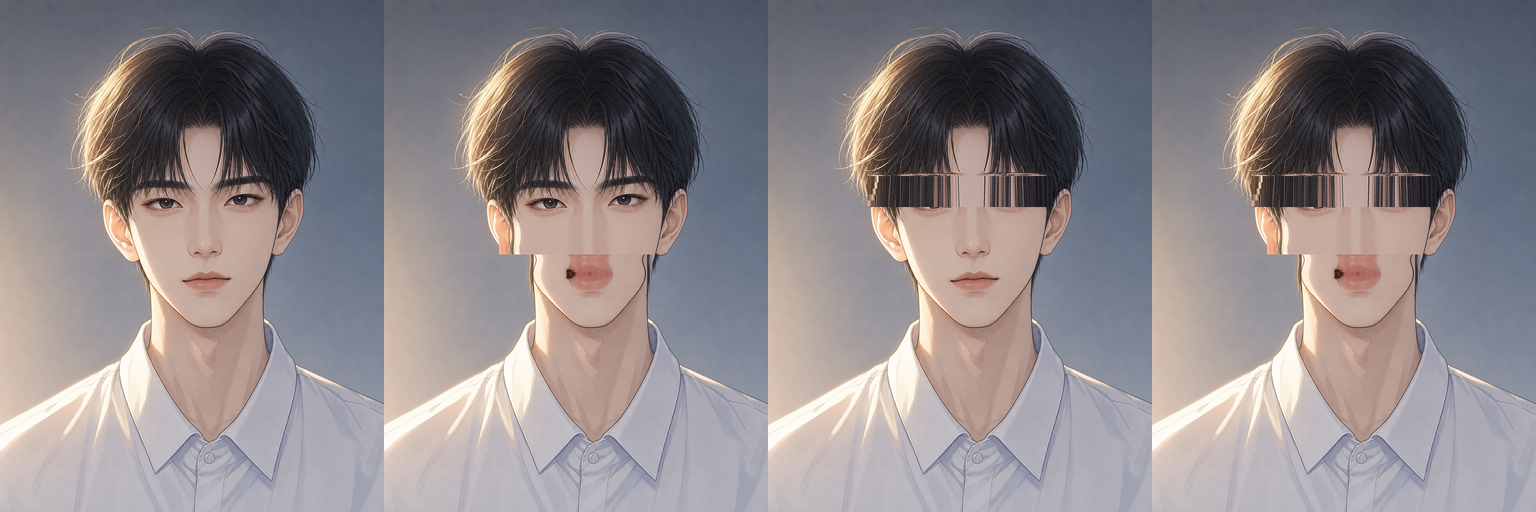
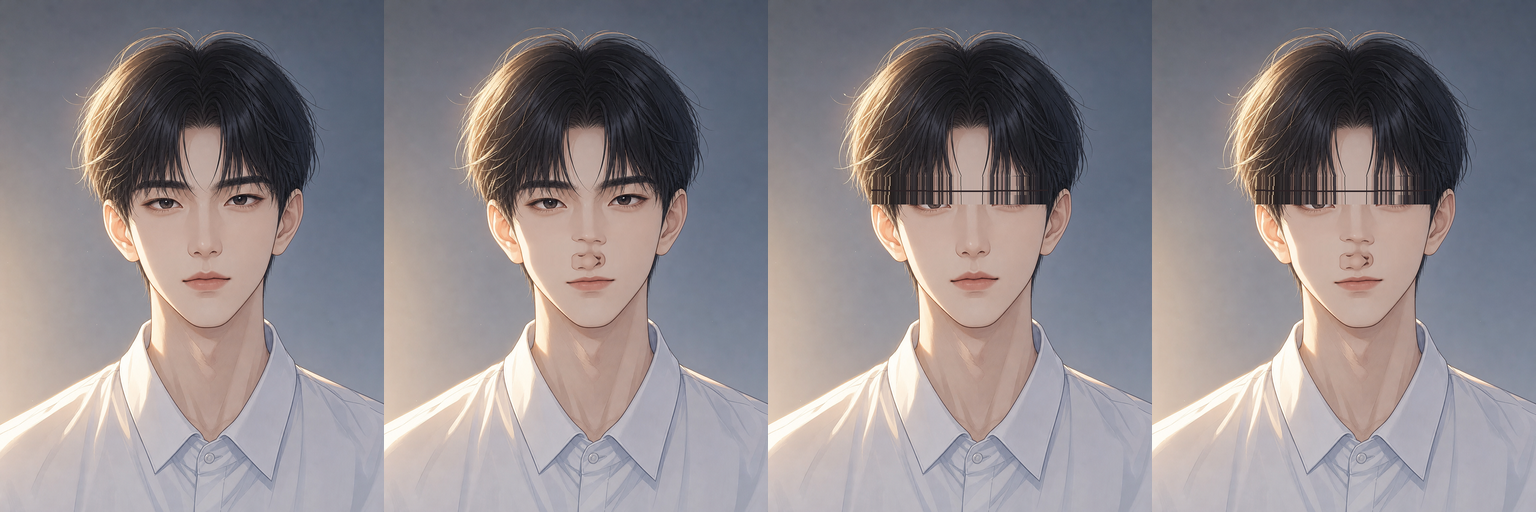
自迭代 · patch frontend/app.js · 朗读时把音频接到数字人口型上

diff --git a/frontend/style.css b/frontend/style.css
@@ -3477,3 +3477,148 @@ html[data-theme="light"] select.pill-select option {
 }
 .tts-menu-rate > span { flex: none; }
 .tts-menu-rate .tts-menu-item { width: auto; padding: 3px 7px; font-size: 12px; }
+
+/* ===== 数字人（2026-11-12）=====
+   浮在右下角、可拖动。形象 + 一个"嘴部矩形"，前端用音频包络驱动它缩放。
+   ⚠ 全部用 fixed + transform，**不参与**主布局流，绝不能把消息区/输入框挤变形。 */
+.av-box {
+  position: fixed;
+  right: 18px;
+  bottom: 104px;
+  width: 132px;
+  z-index: 60;
+  display: flex;
+  flex-direction: column;
+  align-items: center;
+  user-select: none;
+  touch-action: none;
+}
+.av-stage {
+  position: relative;
+  width: 132px;
+  height: 176px;
+  border-radius: 14px;
+  overflow: hidden;
+  background: rgba(20, 24, 32, .55);
+  box-shadow: 0 6px 20px rgba(0, 0, 0, .35);
+  cursor: grab;
+}
+.av-stage:active { cursor: grabbing; }
+.av-img {
+  width: 100%;
+  height: 100%;
+  object-fit: cover;
+  display: block;
+  pointer-events: none;
+  transition: filter .4s ease;
+}
+/* 嘴：平时透明，说话时出现。位置/大小由 JS 按 avatar.mouth 覆盖 */
+.av-mouth {
+  position: absolute;
+  left: 50%;
+  top: 72%;
+  width: 16%;
+  height: 6.5%;
+  transform: translate(-50%, -50%);
+  border-radius: 50%;
+  background: radial-gradient(ellipse at center, #3a1414 0%, #7a2b2b 72%, rgba(122, 43, 43, 0) 100%);
+  opacity: 0;
+  pointer-events: none;
+  transition: opacity .18s ease;
+  will-change: transform;
+}
+.av-box.speaking .av-mouth { opacity: .92; }
+/* 校准模式：露出虚线框，可拖可缩放 */
+.av-box.calib .av-mouth {
+  opacity: 1;
+  outline: 2px dashed #ffd166;
+  background: rgba(255, 209, 102, .35);
+  pointer-events: auto;
+  cursor: move;
+  transition: none;
+}
+.av-ph {
+  position: absolute;
+  inset: 0;
+  display: flex;
+  flex-direction: column;
+  align-items: center;
+  justify-content: center;
+  color: #cbd5e1;
+  font-size: 12px;
+  line-height: 1.7;
+  text-align: center;
+  pointer-events: none;
+}
+.av-ph small { opacity: .7; font-size: 11px; }
+.av-bubble {
+  position: absolute;
+  left: 50%;
+  bottom: 100%;
+  transform: translate(-50%, -8px);
+  background: #fff;
+  color: #1f2937;
+  font-size: 12px;
+  line-height: 1.5;
+  padding: 6px 9px;
+  border-radius: 10px;
+  max-width: 190px;
+  width: max-content;
+  box-shadow: 0 4px 14px rgba(0, 0, 0, .18);
+  pointer-events: none;
+}
+.av-bubble::after {
+  content: "";
+  position: absolute;
+  top: 100%;
+  left: 50%;
+  margin-left: -5px;
+  border: 5px solid transparent;
+  border-top-color: #fff;
+}
+.av-sleep {
+  position: absolute;
+  right: 9px;
+  top: 6px;
+  color: #a5b4fc;
+  font-size: 11px;
+  letter-spacing: 2px;
+  animation: avz 1.8s ease-in-out infinite;
+}
+@keyframes avz {
+  0%, 100% { opacity: .35; transform: translateY(0); }
+  50% { opacity: 1; transform: translateY(-4px); }
+}
+/* 休眠：压暗 + 略降饱和，不真的闭眼（照片做不到） */
+.av-box.sleep .av-img { filter: brightness(.68) saturate(.75); }
+.av-bar { display: flex; gap: 4px; margin-top: 4px; }
+.av-bar button {
+  width: 22px;
+  height: 22px;
+  padding: 0;
+  border: none;
+  border-radius: 6px;
+  background: rgba(148, 163, 184, .28);
+  color: #e2e8f0;
+  font-size: 12px;
+  cursor: pointer;
+  line-height: 1;
+}
+.av-bar button:hover { background: rgba(148, 163, 184, .5); }
+.av-bar button.on { background: rgba(255, 209, 102, .85); color: #1f2937; }
+/* 隐藏后右下角留一个小球，点一下叫回来 */
+.av-tab {
+  position: fixed;
+  right: 18px;
+  bottom: 104px;
+  width: 34px;
+  height: 34px;
+  border: none;
+  border-radius: 50%;
+  background: rgba(99, 102, 241, .9);
+  color: #fff;
+  font-size: 16px;
+  cursor: pointer;
+  z-index: 60;
+  box-shadow: 0 4px 14px rgba(0, 0, 0, .3);
+}

diff --git a/frontend/app.js b/frontend/app.js
@@ -1662,6 +1662,7 @@
       if (!r || !r.ok) throw new Error((r && r.error) || "合成失败");
       const a = new Audio(r.url);
       _ttsAudio = a;
+      try { avAttach(a); } catch (e) { /* 数字人没加载也不影响朗读 */ }
       btn.disabled = false;
       btn.textContent = "⏹";
       btn.onclick = (e) => {
